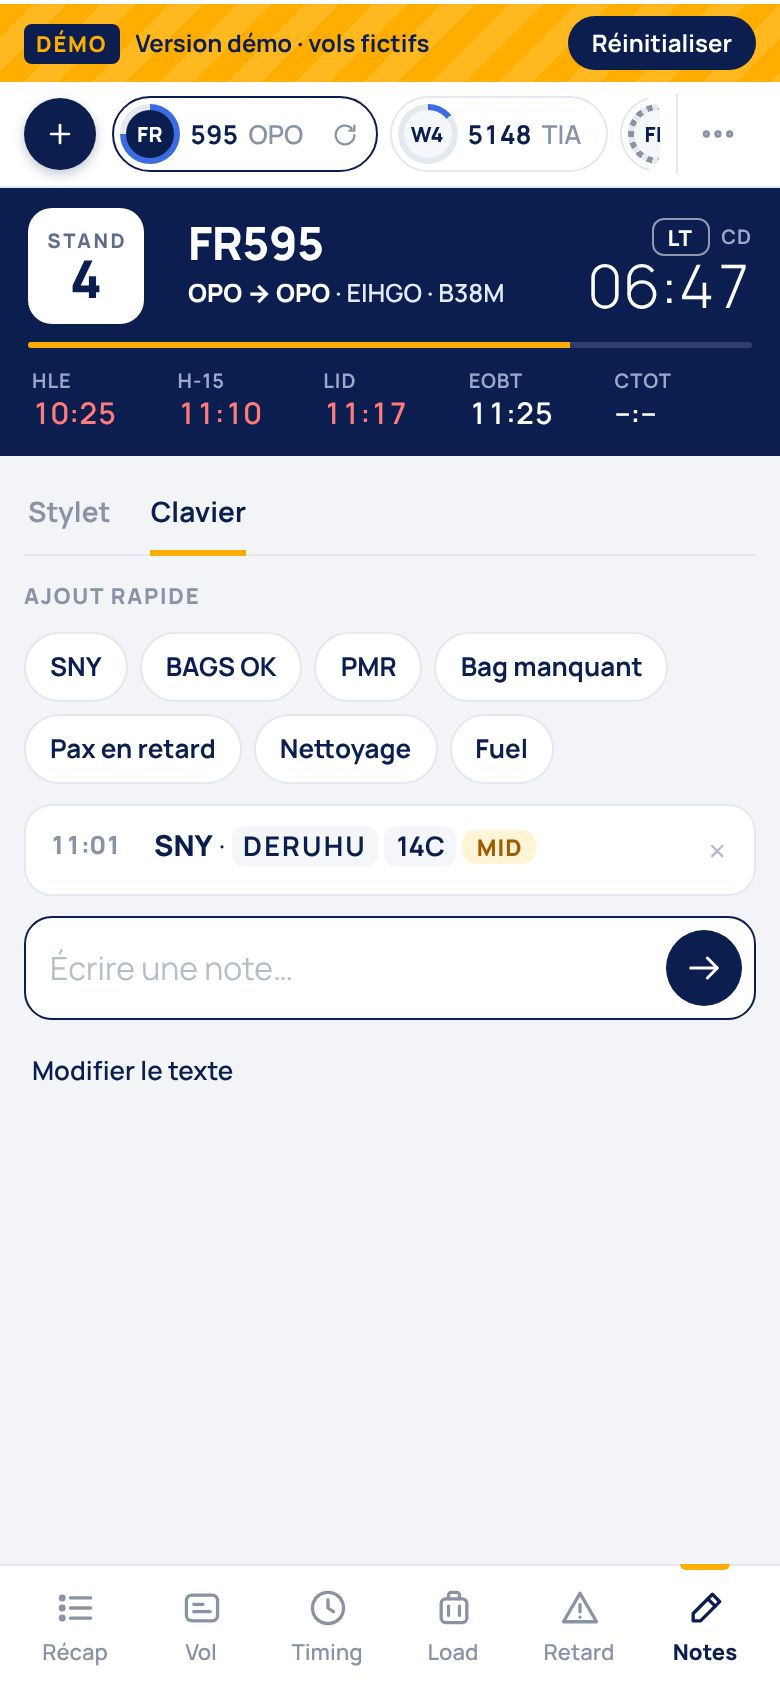
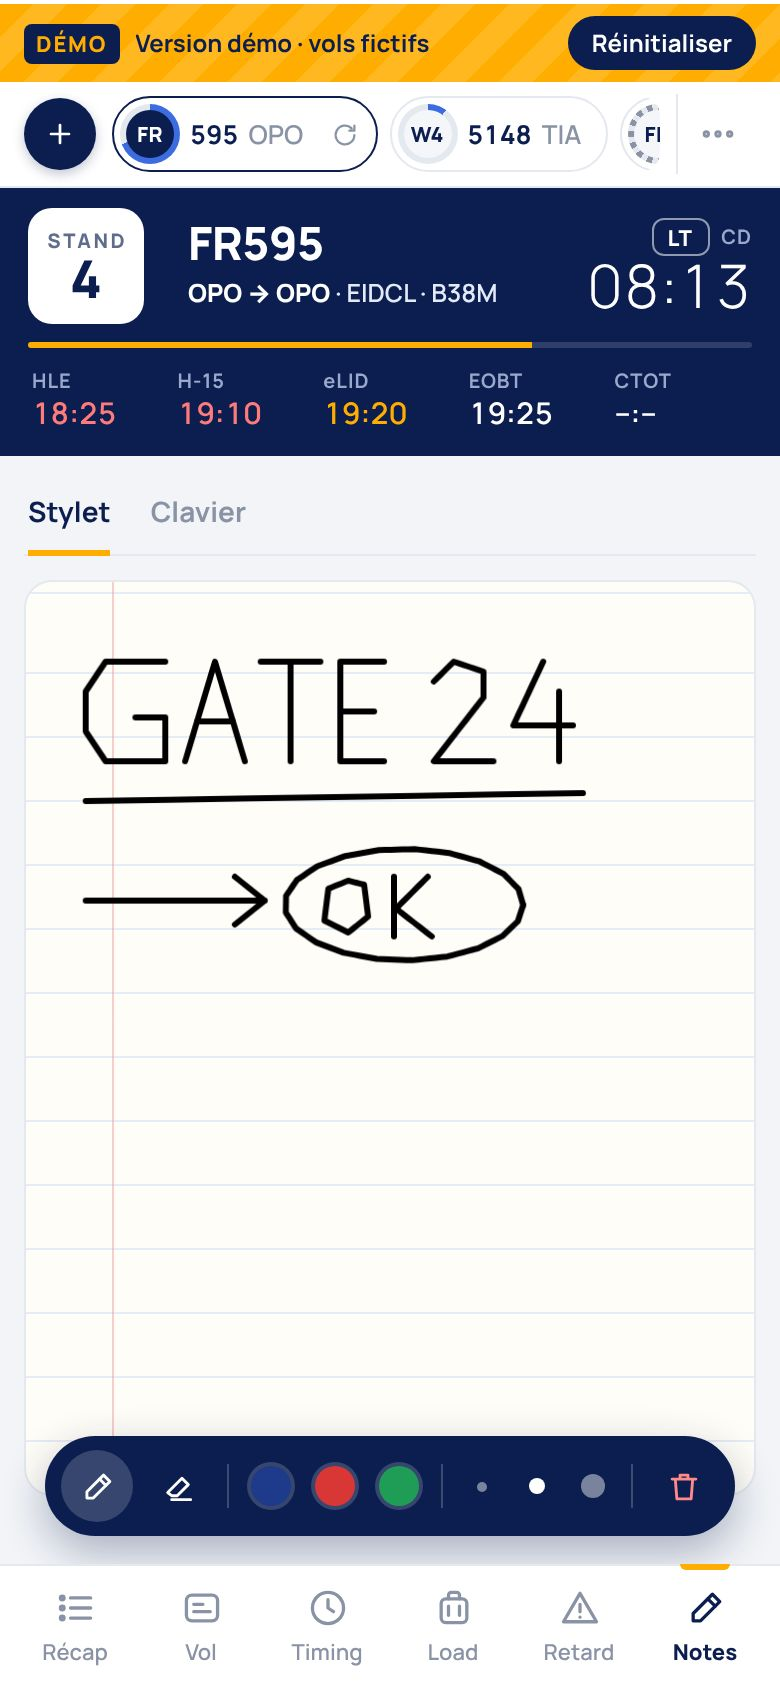
Manuel : vraie capture du mode Stylet dans Notes
Claude-Session: https://claude.ai/code/session_01BEmDqkNWhievWY6FKKJQpQ

diff --git a/manuel.html b/manuel.html
@@ -132,7 +132,7 @@ mark{background:var(--mark);color:inherit;border-radius:3px;padding:0 1px}
 <script>
 // Contenu du manuel : [groupe, id, titre, captures (manuel/img/*.jpg), texte HTML]
 // IMGV : à changer quand des captures sont refaites (sinon le navigateur garde les anciennes)
-const IMGV = '10';
+const IMGV = '11';
 const I = (f, c) => [f, c];
 // gros plans (captures recadrées, haute définition) affichés sous le texte de la rubrique
 const ZM = {
